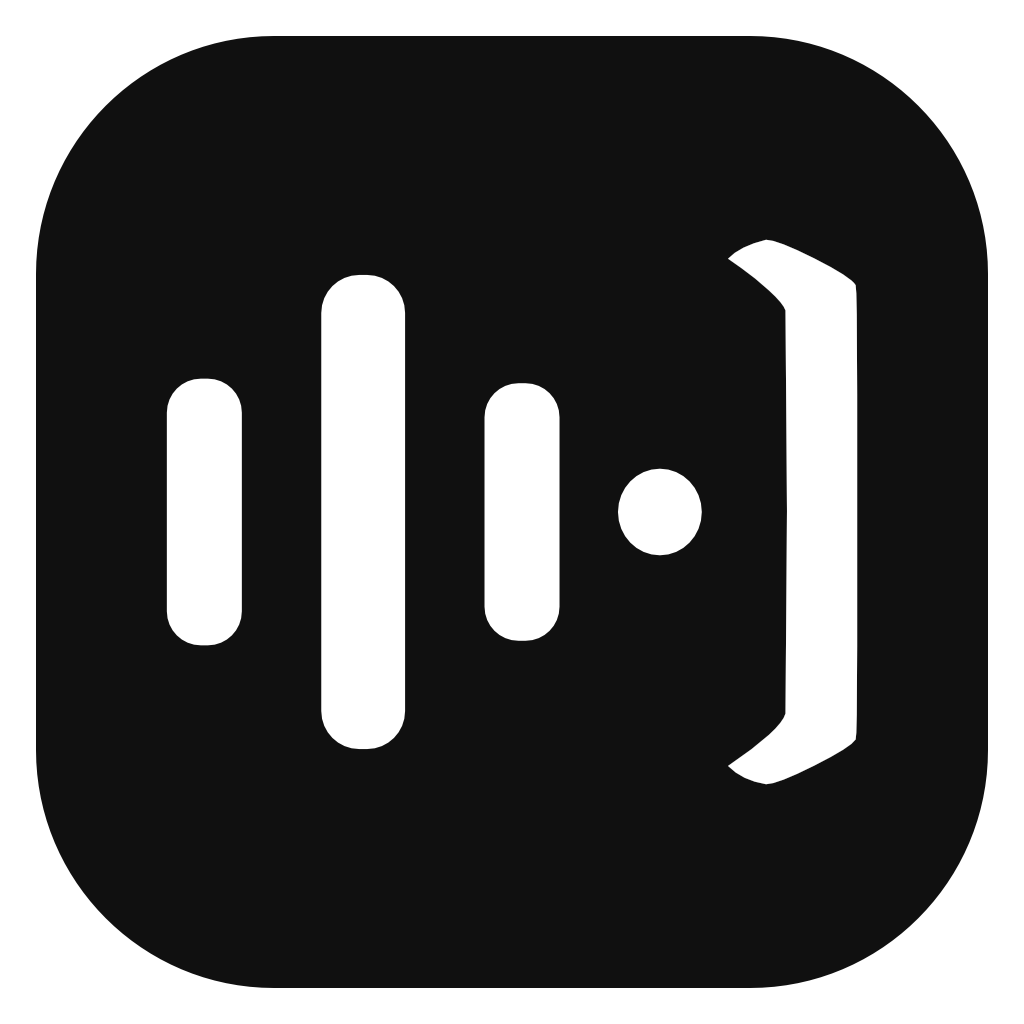
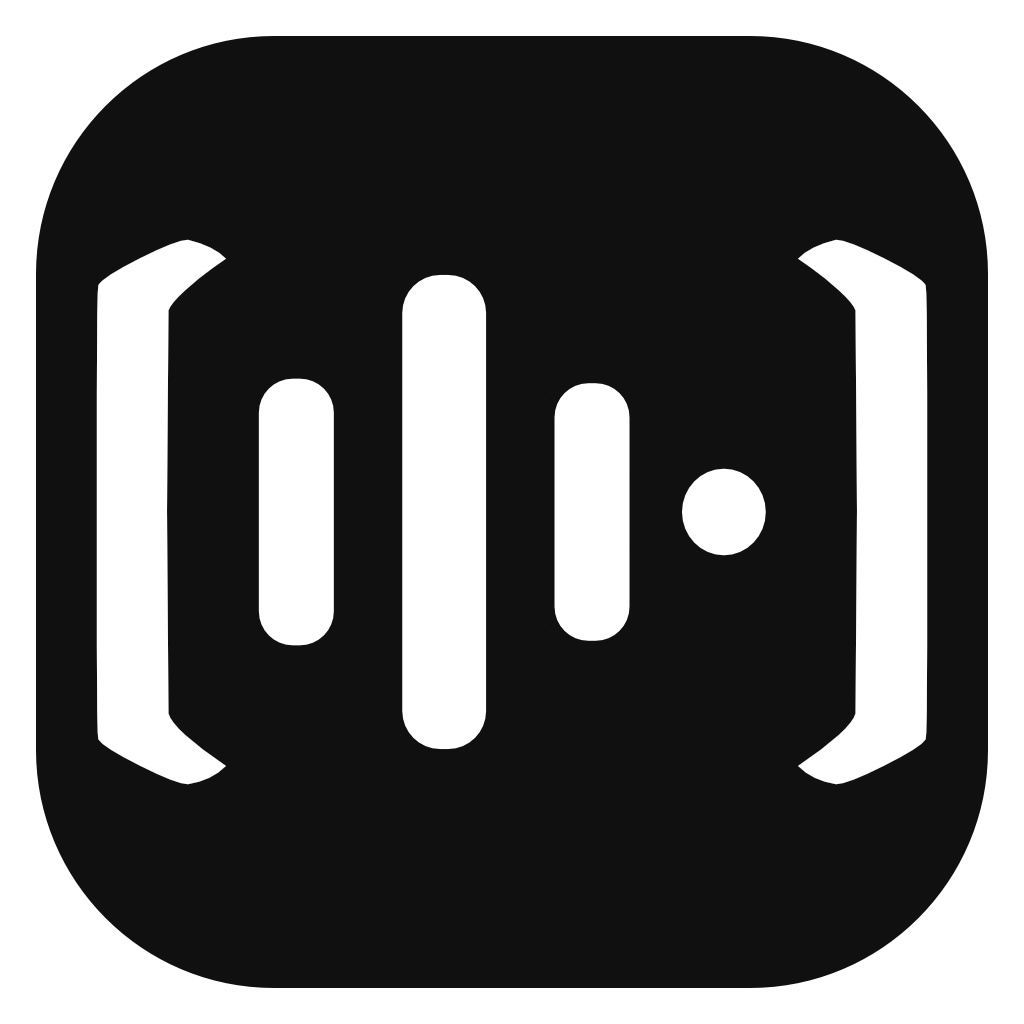
Give the headless UI its own bracketed Talktome mark
Keep the server client's white-on-black waveform, dot and bracket, and
wrap them in matching [ ] so the panel is a sibling of Admin and Bridge
rather than a copy of either.

Changed region(s): [[0.0938, 0.2188, 0.9062, 0.7812]]

diff --git a/headless-client/specification.md b/headless-client/specification.md
@@ -709,7 +709,10 @@ Each instance serves a local administration UI (`web.bind:web.port`,
 default `0.0.0.0:8080`; one port per instance) built with axum and plain
 HTML/CSS/JS embedded in the binary. It follows the Talktome Admin panel's
 look (dark navy, cards, blue primary) and is laid out for phones first,
-because in the field it is opened from a smartphone.
+because in the field it is opened from a smartphone. The favicon and
+header mark keep the Talktome waveform, dot and bracket, white on black
+like the server client, but wrap them in `[ ]` so the panel is not the
+same icon as Admin or the black-on-white Bridge.
 
 - **Login**: the user is always `admin`; the password is `web.password`
   (or `TALKTOME_WEB_PASSWORD`). The default `admin` is accepted once and then
